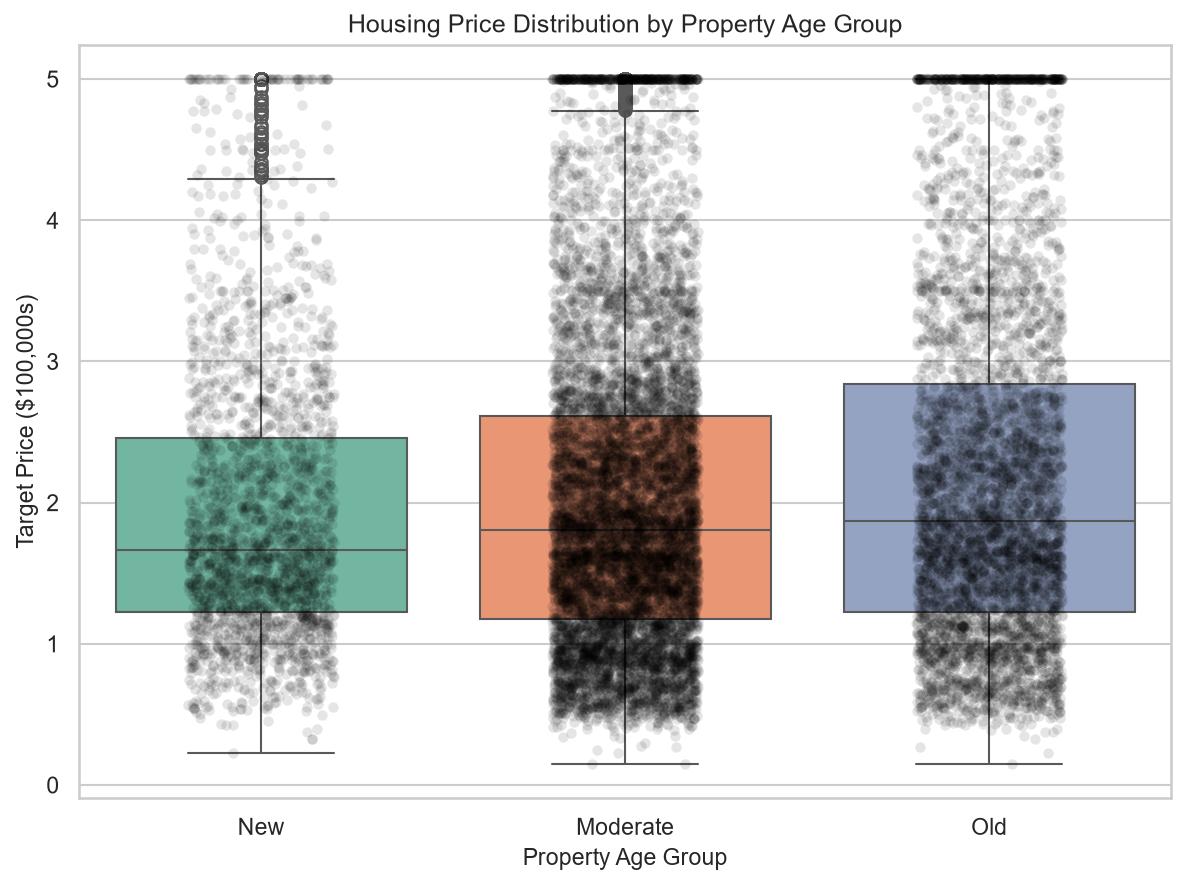
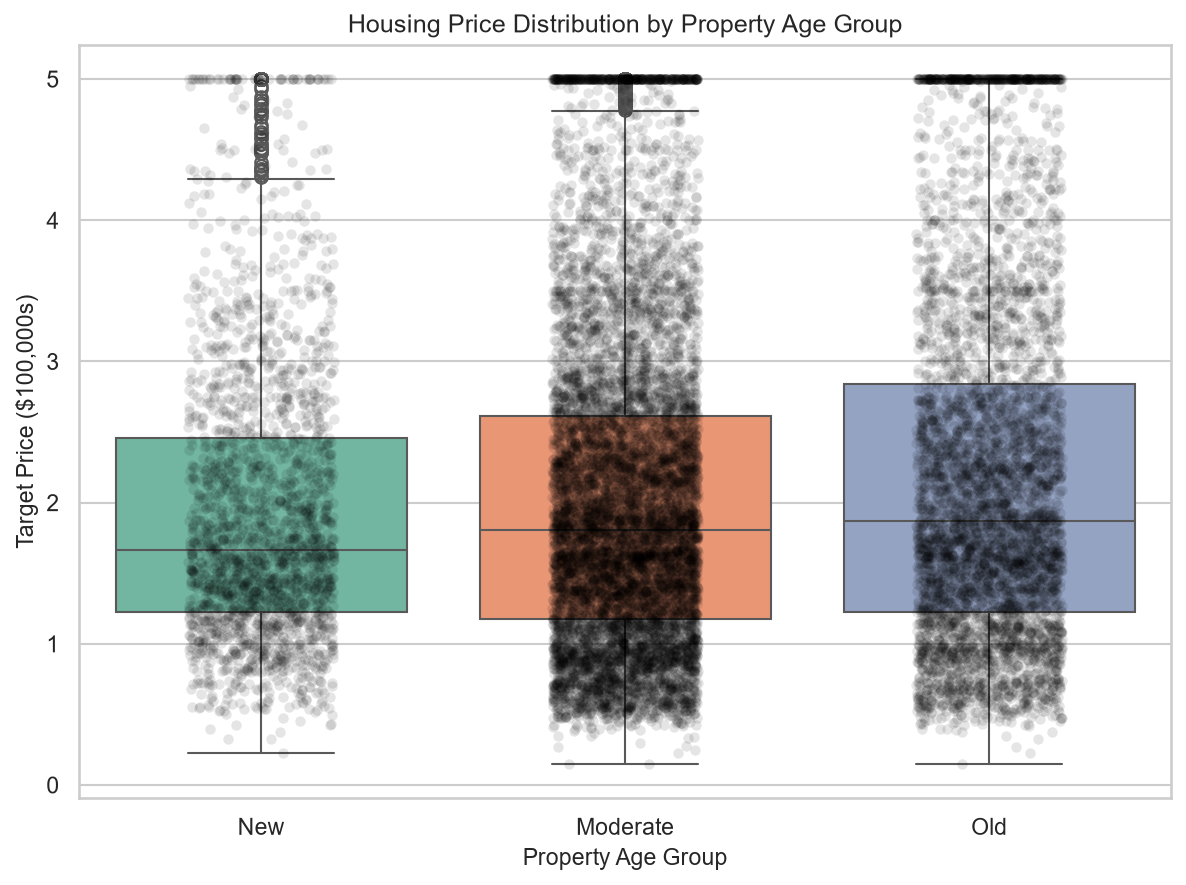
Update Figure 1 to pure KDE density curves and update description text

Changed region(s): [[0.7487, 0.0915, 0.9047, 0.8542], [0.4368, 0.0915, 0.5927, 0.8542], [0.156, 0.061, 0.312, 0.8542]]

diff --git a/assessment_report_draft.md b/assessment_report_draft.md
@@ -144,7 +144,7 @@ Because of this boundary limit and skewness, standard linear regressions are pro
 ---
 
 ### 3.2 Numerical Feature Distributions
-The distributions of numerical features were examined using histograms with KDE overlays to identify skewness, outliers, and general trends (see Figure 1).
+The distributions of numerical features were examined using Kernel Density Estimate (KDE) plot curves to identify skewness, outliers, and general trends (see Figure 1).
 
 ![Figure 1: Numeric Feature Distributions](images/outliers_distribution.png)
 